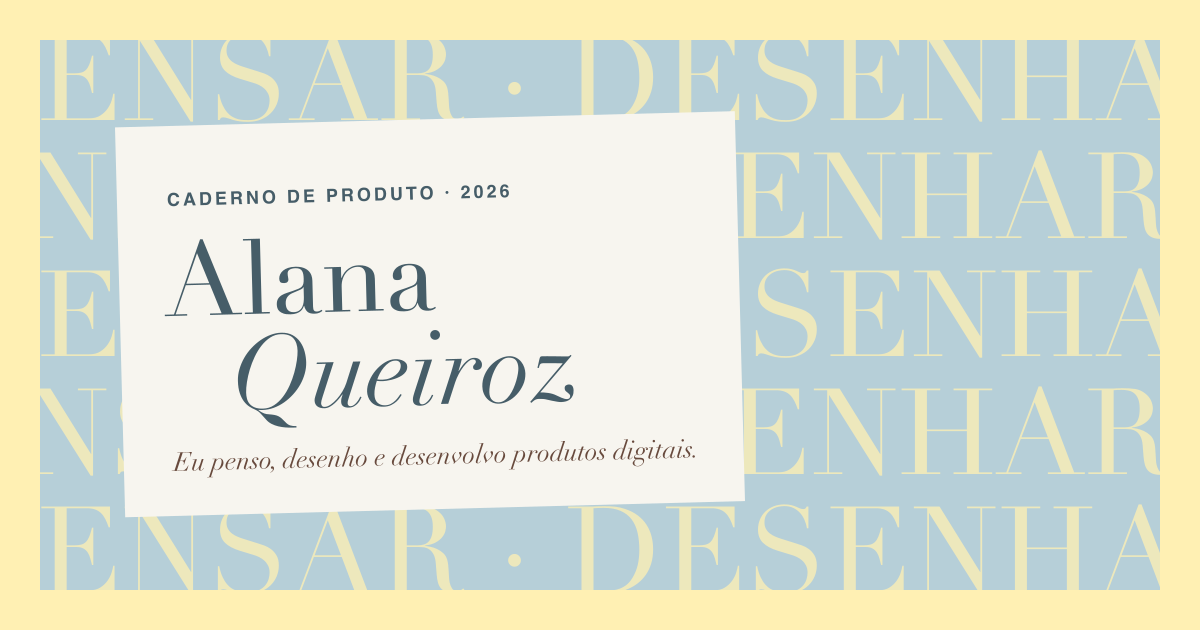
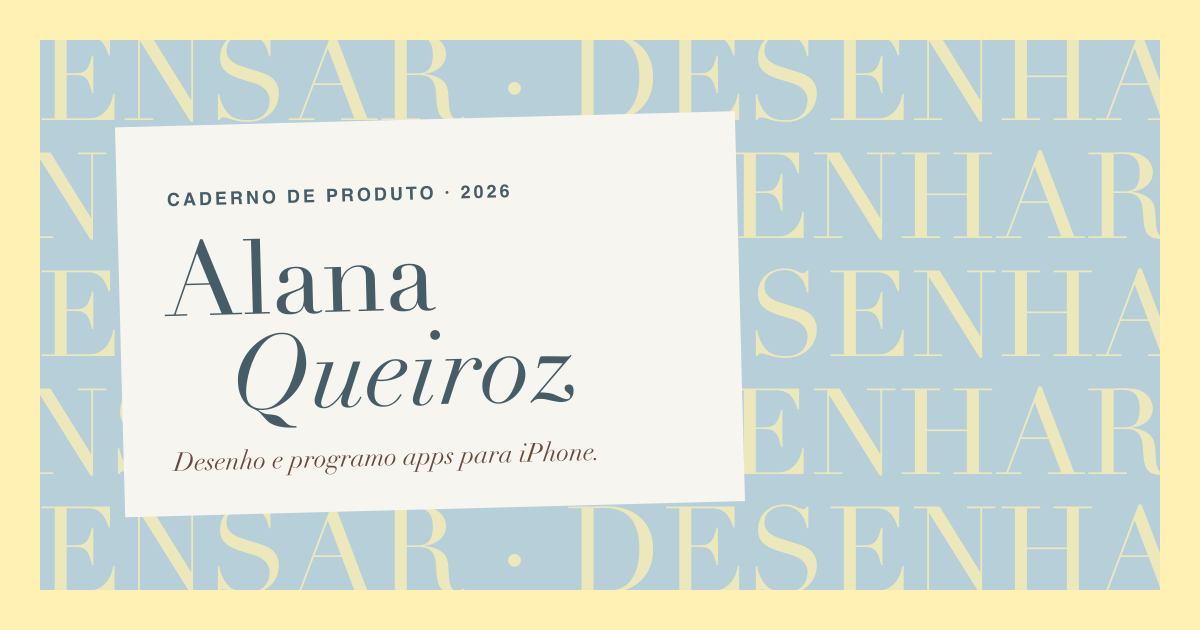
docs: update tagline in meta tags, share image and README

Changed region(s): [[0.1542, 0.6937, 0.5858, 0.754]]

diff --git a/index.html b/index.html
@@ -6,7 +6,7 @@
     <title>Alana Queiroz — Produto, design e desenvolvimento</title>
     <meta
       name="description"
-      content="Portfólio de Alana Queiroz (Lana): estudante de Ciência da Computação na PUCPR e participante da Apple Developer Academy. Eu penso, desenho e desenvolvo produtos digitais."
+      content="Portfólio de Alana Queiroz (Lana): estudante de Ciência da Computação na PUCPR e participante da Apple Developer Academy. Desenho e programo apps para iPhone — dois deles já estão na App Store."
     />
     <meta name="author" content="Alana Queiroz" />
     <meta name="theme-color" content="#FFF0B3" />
@@ -18,7 +18,7 @@
     <meta property="og:title" content="Alana Queiroz — Produto, design e desenvolvimento" />
     <meta
       property="og:description"
-      content="Eu penso, desenho e desenvolvo produtos digitais. Auris, Zip It, Sky Bound e AEGIS."
+      content="Desenho e programo apps para iPhone. Auris, Zip It, Sky Bound e AEGIS."
     />
     <meta property="og:image" content="https://alanaqroz.github.io/Portifolio/og-image.png" />
     <meta property="og:image:width" content="1200" />

diff --git a/README.md b/README.md
@@ -2,9 +2,9 @@
 
 Portfólio pessoal de **Alana Queiroz (Lana)**: estudante de Ciência da Computação na PUCPR e participante da Apple Developer Academy.
 
-> Eu penso, desenho e desenvolvo produtos digitais.
+> Desenho e programo apps para iPhone.
 
-O site é pensado como uma publicação editorial — painéis de cor, tipografia serifada de alto contraste, fotos impressas, post-its e anotações à mão — apresentando quatro projetos: **Auris**, **Zip It**, **Sky Bound** e **AEGIS**, cada um com seu estudo de caso.
+O site é pensado como uma publicação editorial — painéis de cor, tipografia serifada de alto contraste, fotos impressas e poucas anotações à mão — apresentando quatro projetos: **Auris**, **Zip It**, **Sky Bound** e **AEGIS**, cada um com seu estudo de caso.
 
 ## Rodando localmente
 
